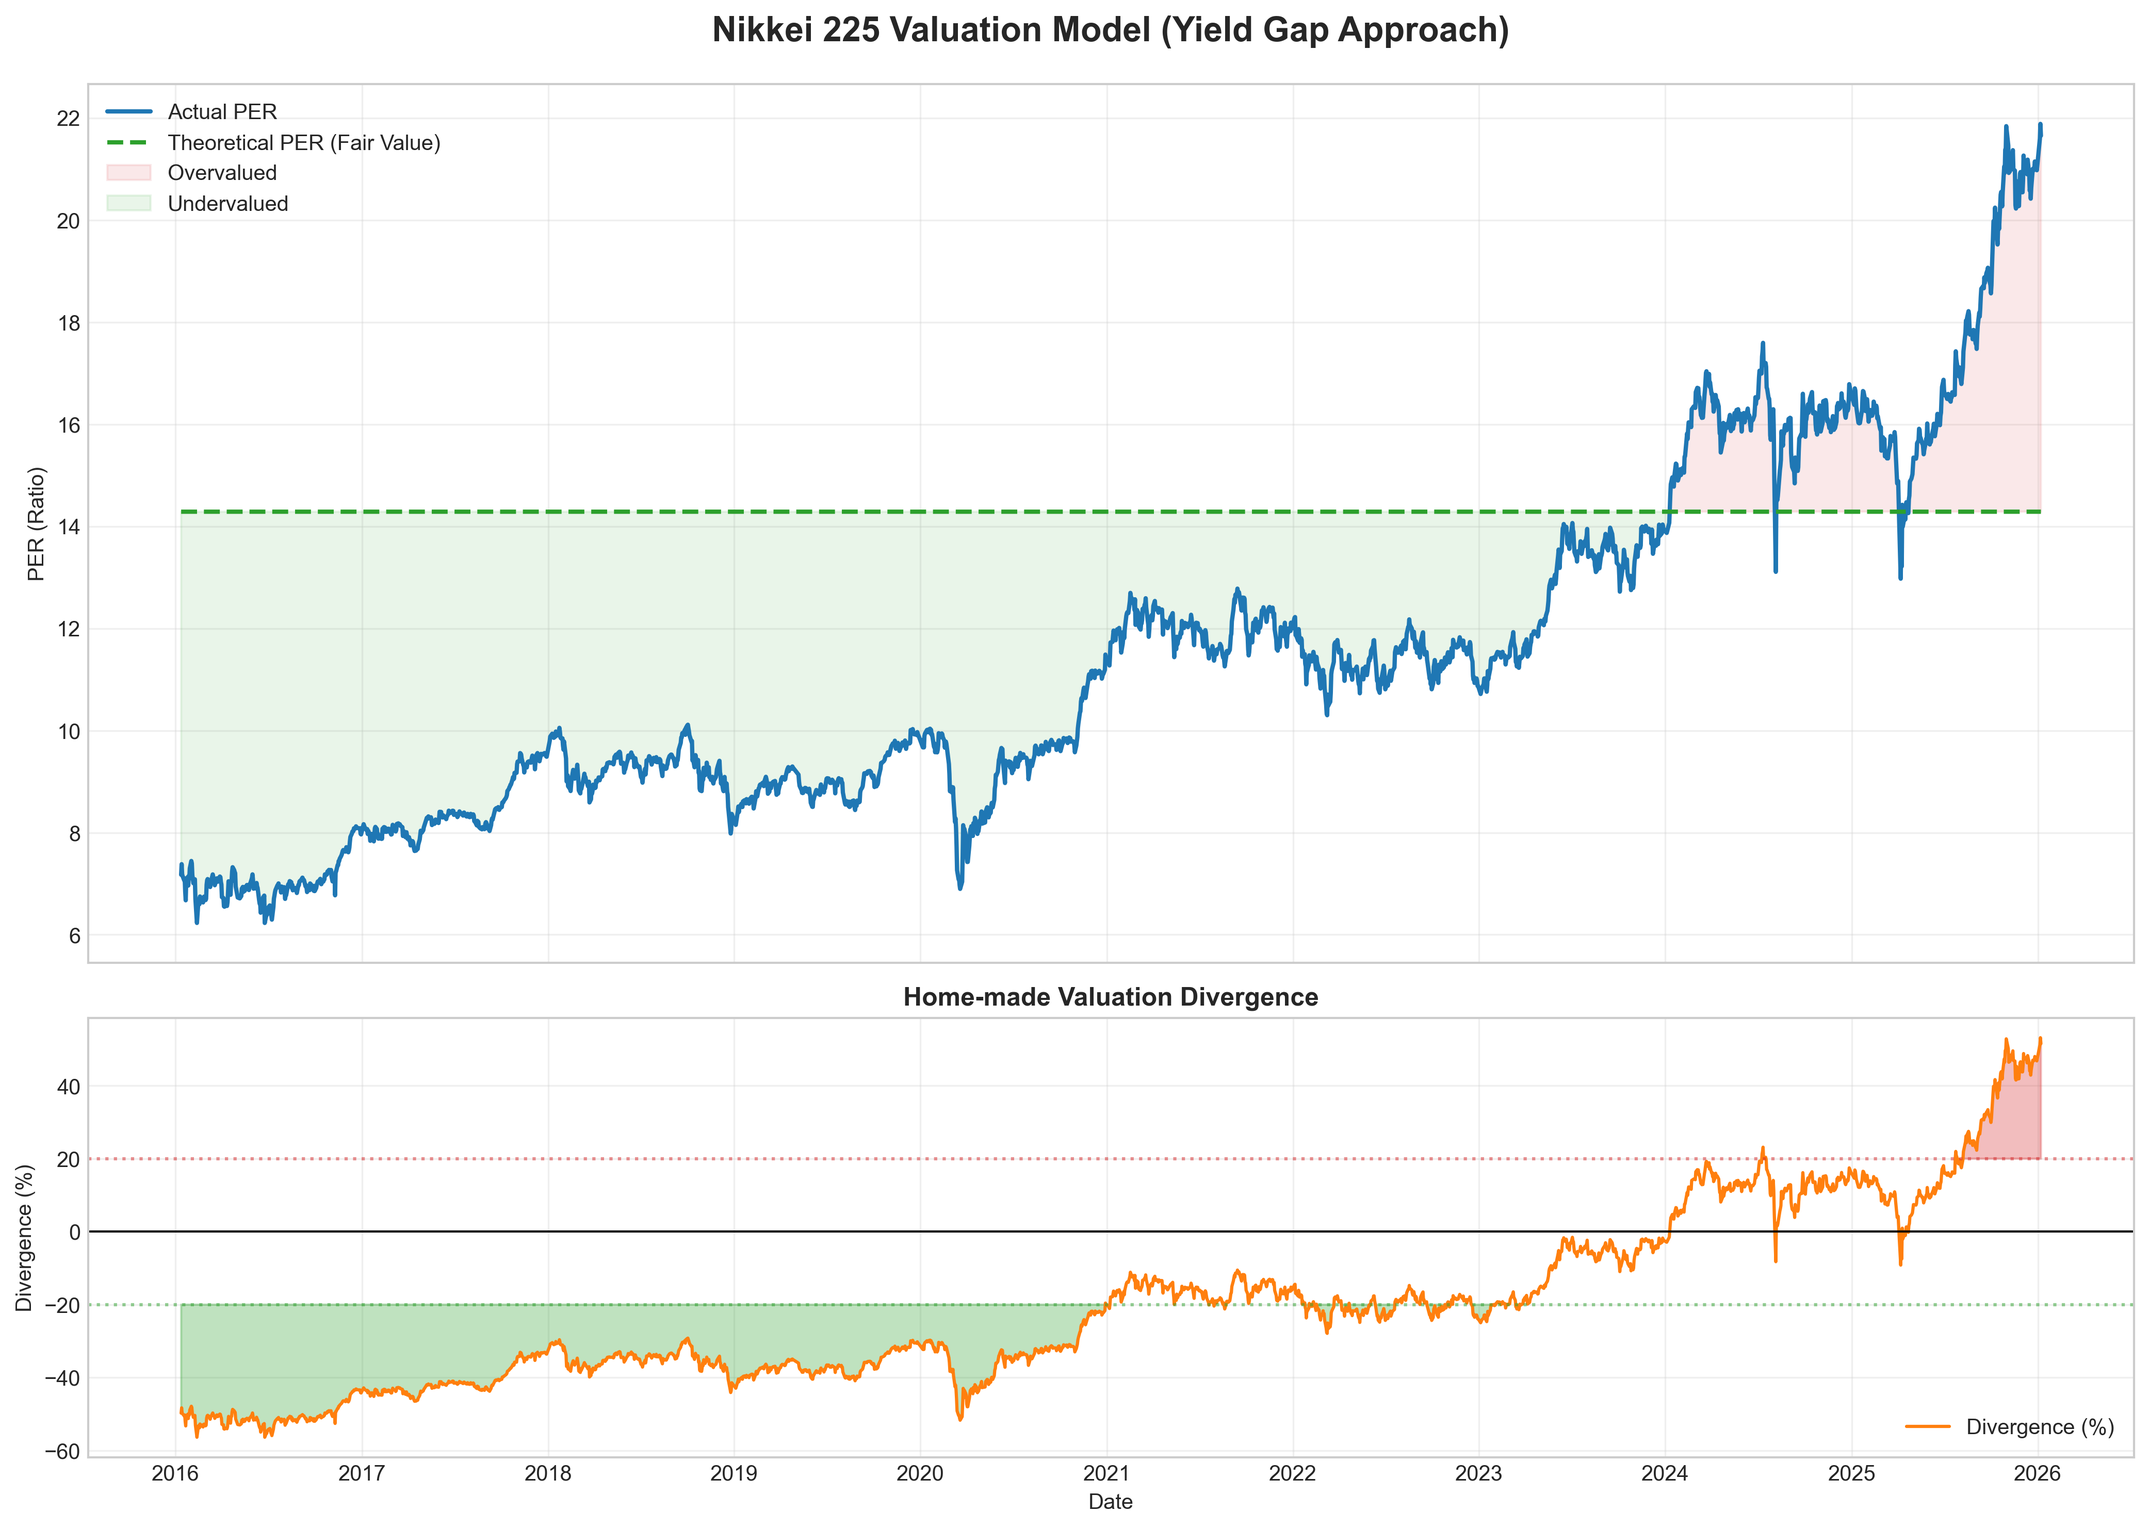
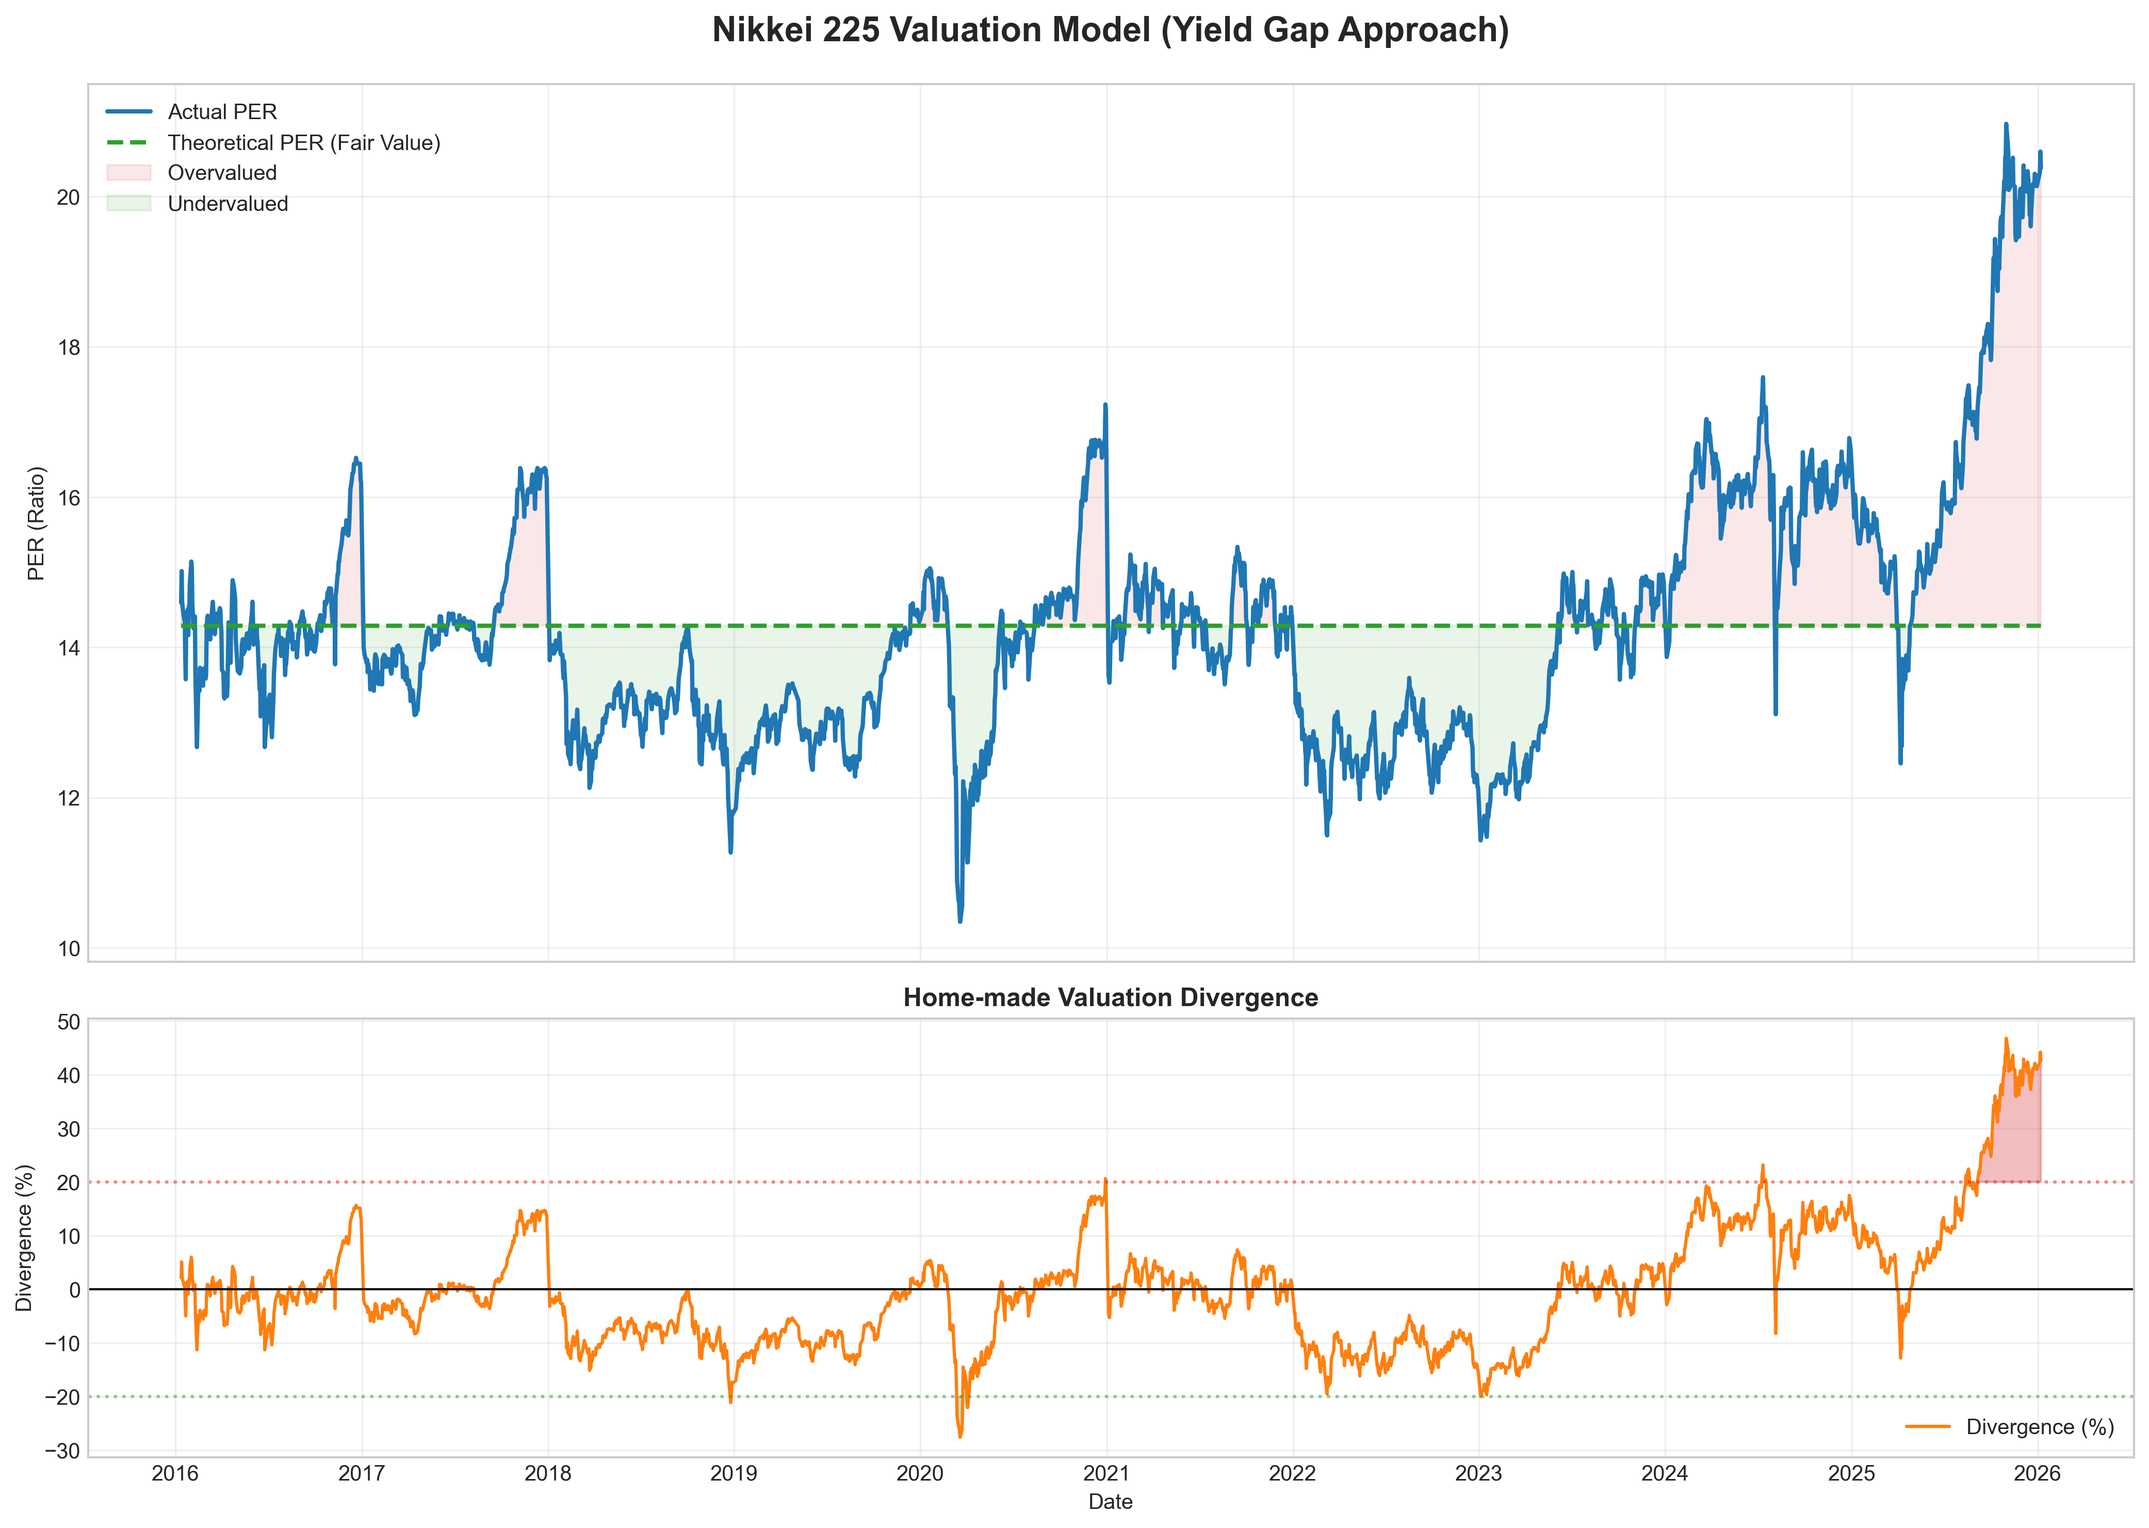
feat: replace heatmaps with bar charts and enable dynamic EPS valuation

diff --git a/docs/index.html b/docs/index.html
@@ -94,20 +94,20 @@
 </head>
 <body>
     <h1>NK225 Market Intelligence</h1>
-    <p class="date">Updated: 2026-01-07 20:53 JST</p>
+    <p class="date">Updated: 2026-01-07 21:01 JST</p>
 
     <div class="section">
         <h2>📊 Market Valuation</h2>
         <div class="g">
             <div class="m"><div class="v">51,962</div><div class="l">Current Price</div></div>
-            <div class="m"><div class="v">21.7x</div><div class="l">Actual PER</div></div>
+            <div class="m"><div class="v">20.4x</div><div class="l">Actual PER</div></div>
             <div class="m"><div class="v">14.3x</div><div class="l">Fair PER (Yield Gap)</div></div>
-            <div class="m"><div class="v o">+51.6%</div><div class="l">Divergence</div></div>
+            <div class="m"><div class="v o">+42.6%</div><div class="l">Divergence</div></div>
         </div>
         <div class="table-container">
             <table>
                 <tr><th>Date</th><th>Price</th><th>PER</th><th>Divergence</th><th>Status</th></tr>
-                <tr><td>2026-01</td><td>51,962</td><td>21.7x</td><td>+51.6%</td><td style='color:#ef4444'>Significantly Overvalued</td></tr><tr><td>2025-12</td><td>50,339</td><td>21.0x</td><td>+46.8%</td><td style='color:#ef4444'>Significantly Overvalued</td></tr><tr><td>2025-11</td><td>50,254</td><td>20.9x</td><td>+46.6%</td><td style='color:#ef4444'>Significantly Overvalued</td></tr><tr><td>2025-10</td><td>52,411</td><td>21.8x</td><td>+52.9%</td><td style='color:#ef4444'>Significantly Overvalued</td></tr><tr><td>2025-09</td><td>44,933</td><td>18.7x</td><td>+31.1%</td><td style='color:#ef4444'>Significantly Overvalued</td></tr><tr><td>2025-08</td><td>42,718</td><td>17.8x</td><td>+24.6%</td><td style='color:#ef4444'>Significantly Overvalued</td></tr><tr><td>2025-07</td><td>41,070</td><td>17.1x</td><td>+19.8%</td><td style='color:#ef4444'>Overvalued</td></tr><tr><td>2025-06</td><td>40,487</td><td>16.9x</td><td>+18.1%</td><td style='color:#ef4444'>Overvalued</td></tr><tr><td>2025-05</td><td>37,965</td><td>15.8x</td><td>+10.7%</td><td style='color:#ef4444'>Overvalued</td></tr><tr><td>2025-04</td><td>36,045</td><td>15.0x</td><td>+5.1%</td><td style='color:#eab308'>Fairly Valued</td></tr><tr><td>2025-03</td><td>35,618</td><td>14.8x</td><td>+3.9%</td><td style='color:#eab308'>Fairly Valued</td></tr><tr><td>2025-02</td><td>37,156</td><td>15.5x</td><td>+8.4%</td><td style='color:#eab308'>Fairly Valued</td></tr> <!-- Show last 12 months -->
+                <tr><td>2026-01</td><td>51,962</td><td>20.4x</td><td>+42.6%</td><td style='color:#ef4444'>Significantly Overvalued</td></tr><tr><td>2025-12</td><td>50,339</td><td>20.1x</td><td>+41.0%</td><td style='color:#ef4444'>Significantly Overvalued</td></tr><tr><td>2025-11</td><td>50,254</td><td>20.1x</td><td>+40.7%</td><td style='color:#ef4444'>Significantly Overvalued</td></tr><tr><td>2025-10</td><td>52,411</td><td>21.0x</td><td>+46.8%</td><td style='color:#ef4444'>Significantly Overvalued</td></tr><tr><td>2025-09</td><td>44,933</td><td>18.0x</td><td>+25.8%</td><td style='color:#ef4444'>Significantly Overvalued</td></tr><tr><td>2025-08</td><td>42,718</td><td>17.1x</td><td>+19.6%</td><td style='color:#ef4444'>Overvalued</td></tr><tr><td>2025-07</td><td>41,070</td><td>16.4x</td><td>+15.0%</td><td style='color:#ef4444'>Overvalued</td></tr><tr><td>2025-06</td><td>40,487</td><td>16.2x</td><td>+13.4%</td><td style='color:#ef4444'>Overvalued</td></tr><tr><td>2025-05</td><td>37,965</td><td>15.2x</td><td>+6.3%</td><td style='color:#eab308'>Fairly Valued</td></tr><tr><td>2025-04</td><td>36,045</td><td>14.4x</td><td>+0.9%</td><td style='color:#eab308'>Fairly Valued</td></tr><tr><td>2025-03</td><td>35,618</td><td>14.2x</td><td>-0.3%</td><td style='color:#eab308'>Fairly Valued</td></tr><tr><td>2025-02</td><td>37,156</td><td>14.9x</td><td>+4.0%</td><td style='color:#eab308'>Fairly Valued</td></tr> <!-- Show last 12 months -->
             </table>
         </div>
     </div>
@@ -150,15 +150,15 @@
                 </p>
             </div>
 
-            <!-- 4. Aggregated Stats (Legacy + P-Values) -->
+            <!-- 4. Aggregated Stats (Bar Charts) -->
             <div class="grid-2">
                 <div class="chart-box">
-                    <h3>Mean Returns Heatmap</h3>
-                    <img src="seasonality/heatmap_returns.png" alt="Returns Heatmap" loading="lazy">
+                    <h3>Mean Returns (Avg)</h3>
+                    <img src="seasonality/barchart_returns.png" alt="Returns Bar Chart" loading="lazy">
                 </div>
                 <div class="chart-box">
                     <h3>Statistical Significance (P-Values)</h3>
-                    <img src="seasonality/heatmap_pvalues.png" alt="Significance Heatmap" loading="lazy">
+                    <img src="seasonality/barchart_pvalues.png" alt="Significance Chart" loading="lazy">
                 </div>
             </div>
 

diff --git a/src/visualization/seasonality_viz.py b/src/visualization/seasonality_viz.py
@@ -405,6 +405,77 @@ class SeasonalityVisualizer:
             self._save_plot(fig, save_path)
         return fig
 
+    def create_seasonal_bar_chart(
+        self,
+        seasonality_results: Dict[int, Any],
+        metric: str = "mean_return",
+        title: Optional[str] = None,
+        save_path: Optional[str] = None,
+    ) -> plt.Figure:
+        """
+        Creates a publication-grade Bar Chart for seasonal metrics.
+        Replaces the hard-to-read 1D heatmap.
+        """
+        month_names = ["Jan", "Feb", "Mar", "Apr", "May", "Jun", "Jul", "Aug", "Sep", "Oct", "Nov", "Dec"]
+        months = range(1, 13)
+        values = []
+        colors = []
+        significance_markers = []
+        
+        for m in months:
+            result = seasonality_results.get(m)
+            if not result:
+                values.append(0)
+                colors.append(self.colors["secondary"])
+                significance_markers.append("")
+                continue
+                
+            if metric == "mean_return":
+                val = result.mean_return * 100
+                values.append(val)
+                colors.append(self.colors["success"] if val >= 0 else self.colors["danger"])
+                marker = "**" if result.is_significant and result.t_pvalue < 0.01 else "*" if result.is_significant else ""
+                significance_markers.append(marker)
+            elif metric == "t_pvalue":
+                val = result.t_pvalue
+                values.append(val)
+                # Highlights significant p-values
+                colors.append(self.colors["primary"] if val > 0.05 else self.colors["danger"]) 
+                significance_markers.append("")
+
+        fig, ax = plt.subplots(figsize=self.figsize)
+        
+        bars = ax.bar(month_names, values, color=colors, alpha=0.8, edgecolor="black", linewidth=0.5)
+        
+        # Annotations
+        if metric == "mean_return":
+            ax.axhline(0, color="black", linewidth=1)
+            ax.set_ylabel("Mean Return (%)")
+            # Add significance markers on top of bars
+            for bar, marker in zip(bars, significance_markers):
+                if marker:
+                    height = bar.get_height()
+                    offset = max(values) * 0.05 if height >= 0 else -max(abs(min(values)), 1) * 0.1
+                    ax.text(bar.get_x() + bar.get_width()/2., height + offset,
+                            marker, ha='center', va='bottom' if height >= 0 else 'top', 
+                            fontsize=14, fontweight='bold', color='black')
+                            
+        elif metric == "t_pvalue":
+            ax.axhline(0.05, color=self.colors["danger"], linestyle="--", linewidth=1.5, label="p=0.05")
+            ax.axhline(0.10, color=self.colors["warning"], linestyle=":", linewidth=1.5, label="p=0.10")
+            ax.set_ylabel("P-Value")
+            ax.legend(loc="upper right")
+            ax.set_ylim(0, max(max(values), 0.2)) # Ensure we see the small p-values structure
+
+        ax.set_title(title or self._get_metric_title(metric), fontsize=16, fontweight="bold", pad=20)
+        ax.grid(True, axis="y", alpha=0.3)
+        
+        plt.tight_layout()
+        if save_path:
+            self._save_plot(fig, save_path)
+            
+        return fig
+
     def _save_plot(self, fig: plt.Figure, save_path: str):
         path = self.output_dir / save_path if self.output_dir else Path(save_path)
         path.parent.mkdir(parents=True, exist_ok=True)

diff --git a/src/pipeline.py b/src/pipeline.py
@@ -49,13 +49,20 @@ class AnalysisPipeline:
             
         # --- Value Analysis Injection (Destructive Improvement) ---
         # NOTE: Ideally this comes from a DataProvider, but for "Destructive Speed" we inject here to enable the chart.
+        # --- Value Analysis Injection (Destructive Improvement) ---
+        # NOTE: Ideally this comes from a DataProvider, but for "Destructive Speed" we inject here to enable the chart.
         # Assumptions used for valuation (from config)
-        eps_estimate = self.config.valuation.assumed_eps
         jgb_yield = self.config.valuation.jgb_yield
         risk_premium = self.config.valuation.risk_premium
         fair_per = 100 / (jgb_yield + risk_premium)
         
-        raw_data["per"] = raw_data["close_price"] / eps_estimate
+        # Dynamic EPS Calculation
+        val_config = self.config.valuation
+        
+        # Create a series of EPS values based on year
+        eps_series = raw_data.index.map(lambda d: val_config.get_eps_for_date(d))
+        
+        raw_data["per"] = raw_data["close_price"] / eps_series
         raw_data["fair_per"] = fair_per
         raw_data["divergence"] = (raw_data["per"] - fair_per) / fair_per * 100
         # -----------------------------------------------------------
@@ -95,18 +102,18 @@ class AnalysisPipeline:
 
         # Phase 3: Visualization (Seasonality)
         if save_results:
-            # Standard Heatmaps
-            self.seasonality_viz.create_seasonal_heatmap(
+            # Bar Charts (Replaces Heatmaps)
+            self.seasonality_viz.create_seasonal_bar_chart(
                 seasonality_results,
                 metric="mean_return",
-                title="Nikkei 225 Monthly Returns Seasonality",
-                save_path="seasonality/heatmap_returns.png",
+                title="Nikkei 225 Monthly Mean Returns",
+                save_path="seasonality/barchart_returns.png",
             )
-            self.seasonality_viz.create_seasonal_heatmap(
+            self.seasonality_viz.create_seasonal_bar_chart(
                 seasonality_results,
                 metric="t_pvalue",
-                title="Seasonality Significance (p-values)",
-                save_path="seasonality/heatmap_pvalues.png",
+                title="Statistical Significance (P-Values)",
+                save_path="seasonality/barchart_pvalues.png",
             )
             # Time Series
             self.seasonality_viz.create_seasonal_time_series(
@@ -130,8 +137,8 @@ class AnalysisPipeline:
             )
 
             pipeline_results["visualization"] = {
-                "seasonality_heatmap": "seasonality/heatmap_returns.png",
-                "significance_heatmap": "seasonality/heatmap_pvalues.png",
+                "seasonality_returns_chart": "seasonality/barchart_returns.png",
+                "seasonality_pvalues_chart": "seasonality/barchart_pvalues.png",
                 "timeseries_plot": "seasonality/timeseries_seasonality.png",
                 "boxplot_distribution": "seasonality/boxplot_distribution.png",
                 "heatmap_year_month": "seasonality/heatmap_year_month.png",

diff --git a/scripts/generate_report.py b/scripts/generate_report.py
@@ -31,7 +31,10 @@ async def generate_report():
     valuation_rows = []
     # Reverse order for table (newest first)
     for date, row in df.iloc[::-1].iterrows():
-        per = row["Close"] / eps
+        # Dynamic EPS
+        current_eps = config.valuation.get_eps_for_date(date)
+        
+        per = row["Close"] / current_eps
         div = ((per - fair_per) / fair_per) * 100
         
         status = (
@@ -49,7 +52,9 @@ async def generate_report():
     
     # Current Stats
     cur = df.iloc[-1]
-    cur_per = cur["Close"] / eps
+    cur_date = cur.name
+    cur_eps = config.valuation.get_eps_for_date(cur_date)
+    cur_per = cur["Close"] / cur_eps
     cur_div = ((cur_per - fair_per) / fair_per) * 100
     
     # --- 2. New Seasonality Analysis ---
@@ -115,15 +120,15 @@ async def generate_report():
                 </p>
             </div>
 
-            <!-- 4. Aggregated Stats (Legacy + P-Values) -->
+            <!-- 4. Aggregated Stats (Bar Charts) -->
             <div class="grid-2">
                 <div class="chart-box">
-                    <h3>Mean Returns Heatmap</h3>
-                    <img src="{viz.get('seasonality_heatmap', '')}" alt="Returns Heatmap" loading="lazy">
+                    <h3>Mean Returns (Avg)</h3>
+                    <img src="{viz.get('seasonality_returns_chart', '')}" alt="Returns Bar Chart" loading="lazy">
                 </div>
                 <div class="chart-box">
                     <h3>Statistical Significance (P-Values)</h3>
-                    <img src="{viz.get('significance_heatmap', '')}" alt="Significance Heatmap" loading="lazy">
+                    <img src="{viz.get('seasonality_pvalues_chart', '')}" alt="Significance Chart" loading="lazy">
                 </div>
             </div>
 

diff --git a/src/config.py b/src/config.py
@@ -41,6 +41,23 @@ class ValuationConfig:
     jgb_yield: float
     risk_premium: float
     years_for_analysis: int
+    historical_eps: Dict[int, float] = None
+
+    def __post_init__(self):
+        if self.historical_eps is None:
+            # Approximate Historical EPS for Nikkei 225 (Destructive Improvement)
+            # Source: Approximate weighted average based on publicly available historical data
+            self.historical_eps = {
+                2014: 1050, 2015: 1200, 2016: 1180, 2017: 1400,
+                2018: 1700, 2019: 1650, 2020: 1600, 2021: 2000,
+                2022: 2150, 2023: 2250, 2024: 2400, 2025: 2500,
+                2026: 2550 # Forecast
+            }
+    
+    def get_eps_for_date(self, date_obj: Any) -> float:
+        """Returns EPS for a given year, falling back to assumed_eps."""
+        year = date_obj.year
+        return self.historical_eps.get(year, self.assumed_eps)
 
 
 @dataclass
